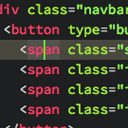
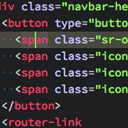
add markdown, change HTML class color

diff --git a/README.md b/README.md
@@ -1,15 +1,23 @@
 # Dark Atom Dark Green Cursor Theme
 
-This is a fork of my [Dark Atom Sublime 3 Theme](https://github.com/therealmarv/Atom-Dark.tmTheme) for VSCode.
-
-I compared it with the original Atom editor together with HTML, JS and Python code and it either matches or comes pretty close.
+Most of this theme is based on original Atom editor look and feel.  
+However some parts are partially inspired from Monokai theme (like e.g. HTML tags).
 
 The big eyecandy is the **GREEN** cursor :)
+
+If you find errors or have comments feel free to open an [issue on github](https://github.com/therealmarv/vscode-theme-dark-atom-dark-green-cursor/issues) or send me a PR.
+
+I try to improve this theme for more programming languages over time. It is good tested with Python, JS, HTML, JSON, YAML and Markdown.
 
 ![Screenshot](https://raw.githubusercontent.com/therealmarv/vscode-theme-dark-atom-dark-green-cursor/master/screenshot.png)
 
 ## Recommendations
 
 I recommend using this theme together with the [file-icons icon theme](https://github.com/file-icons/vscode) to complete the experience.
+
+## History
+
+* Look at `CHANGELOG.MD` for changes.
+* This theme is a modified fork of my [Dark Atom Sublime 3 Theme](https://github.com/therealmarv/Atom-Dark.tmTheme) for VSCode.
 
 **Enjoy!**

diff --git a/CHANGELOG.md b/CHANGELOG.md
@@ -1,13 +1,20 @@
 # Change Log
 All notable changes to the "vscode-theme-dark-atom-dark-green-cursor" extension will be documented in this file.
 
-## [Unreleased]
-- Fork of Sublime Theme https://github.com/therealmarv/Atom-Dark.tmTheme
+## [1.0] - 2017-02-09
+- Added Markdown highlighting.
+- Changed `class` highlighting to more cyan like in Atom.
+- Added Monokai style find highlighter.
+- Added `diff.header`.
+- Updated screenshots and icon.
+- Updated README.
 
 ## [0.9.1] - 2017-02-03
-- Add the word theme to everywhere and recommend file-icons in README
+- Add the word theme to everywhere and recommend file-icons in README.
 
 ## [0.9.0] - 2017-02-03
-- Structure theme to VSCode theme conventions
-- Preview image, icon etc.
+- Structure theme to VSCode theme conventions.
+- Added Preview image, icon.
 
+## [Unreleased]
+- Fork of Sublime Theme <https://github.com/therealmarv/Atom-Dark.tmTheme>.
